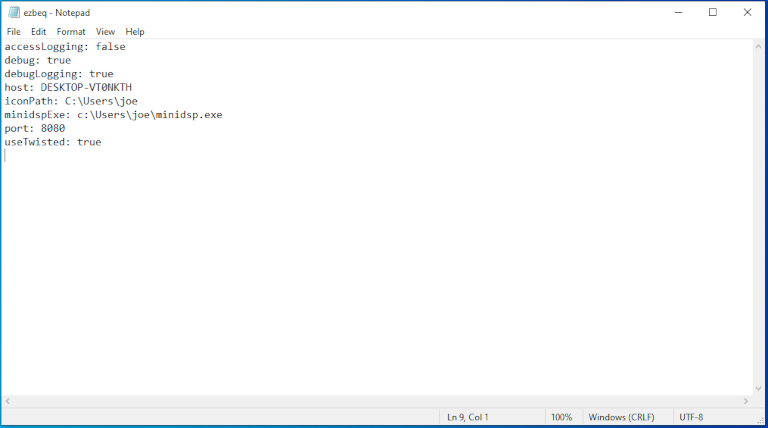
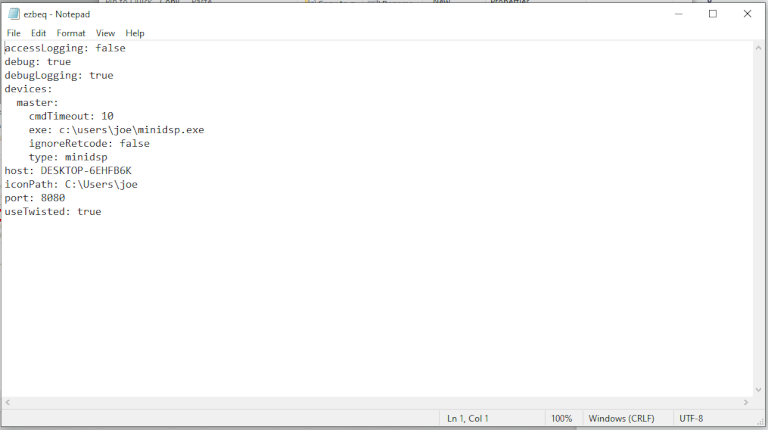
Update win documentation for options and screenshots of ezbeq

Changed region(s): [[0.0, 0.0, 1.0, 1.0]]

diff --git a/docs/win.md b/docs/win.md
@@ -16,7 +16,7 @@ As of 4/22/2021, the installation steps have been simplified greatly. The steps 
 
 minidsp-rs is a utility, written by mrene on avsforum.com, which allows the system to communicate with the MiniDSP 2x4HD, without using the proprietary minidsp plugin. Pre-compiled binaries are available for most operating systems, and there is an available Windows executable.
 
-1\. Open a browser and go to [https://github.com/mrene/minidsp-rs/releases](https://github.com/mrene/minidsp-rs/releases). Download file minidsp.x86_64-pc-windows-msvc.zip, saving it in the Downloads folder of the currently logged in user (this should be the default).
+1\. Open a browser and go to [https://github.com/mrene/minidsp-rs/releases](https://github.com/mrene/minidsp-rs/releases). Download file minidsp.x86_64-pc-windows-msvc.zip, saving it in the Downloads folder of the currently logged in user (this should be the default). Please download v0.1 or greater.
 
 ![minidsp-rs site](./img/win01.png)
 
@@ -110,7 +110,7 @@ Run the installer. When complete, re-launch ezbeq, which should now open a Comma
 
 ![Example of config file](./img/win21.png)
 
-13\. Host will be the name of the system. Change the "minidspExe" line to the location where the minidsp.exe was placed initially. Save the file.
+13\. Host will be the name of the system. Change the "exe:" line to the location where the minidsp.exe was placed initially. Save the file.
 
 NOTE: Ensure that .exe is added to the end as well, or it won't work correctly.
 
@@ -128,7 +128,7 @@ Open a browser window to `http://127.0.0.1:8080`
 
 ![Example of ezbeq interface](./img/win24.png)
 
-16\. Verify that an asterisk (\*) is next to one of the slot numbers (1-4). This indicates that ezbeq was able to read the active config slot from the MiniDSP, and that everything is ready to go.
+16\. Verify that one of the four configuration slots is highlighted (slot 1 in the example above). This indicates that ezbeq was able to read the active config slot from the MiniDSP, and that everything is ready to go. If all four boxes are the same color, then ezbeq is not able to communicate with minidsp-rs, or minidsp-rs cannot communicate with the MiniDSP 2x4HD hardware.
 
 Once ezbeq is installed, it can be run manually from a Command Prompt or Powershell (`C:\Users\<userid>\ezbeq.exe`), double-click on the executable, or continue to the next section to start ezbeq automatically upon system boot.
 
@@ -260,10 +260,10 @@ Now that minidsp-rs is running in server mode, the ezbeq configuration needs to 
 
 ![Example of config file](./img/win38.png)
 
-3\. Add the following line and then Save the file.
+3\. Add the following line and then Save the file. Note there are 4 spaces, then the word "options".
 
 ```
-minidspOptions: --tcp 127.0.0.1
+    options: '--tcp 127.0.0.1:5333'
 ```
 
 NOTE: This configuration assumes that minidsp-rs and ezbeq are running on the same system. If minidsp-rs is running in server mode on a separate device, then enter the IP address of the remote system.
